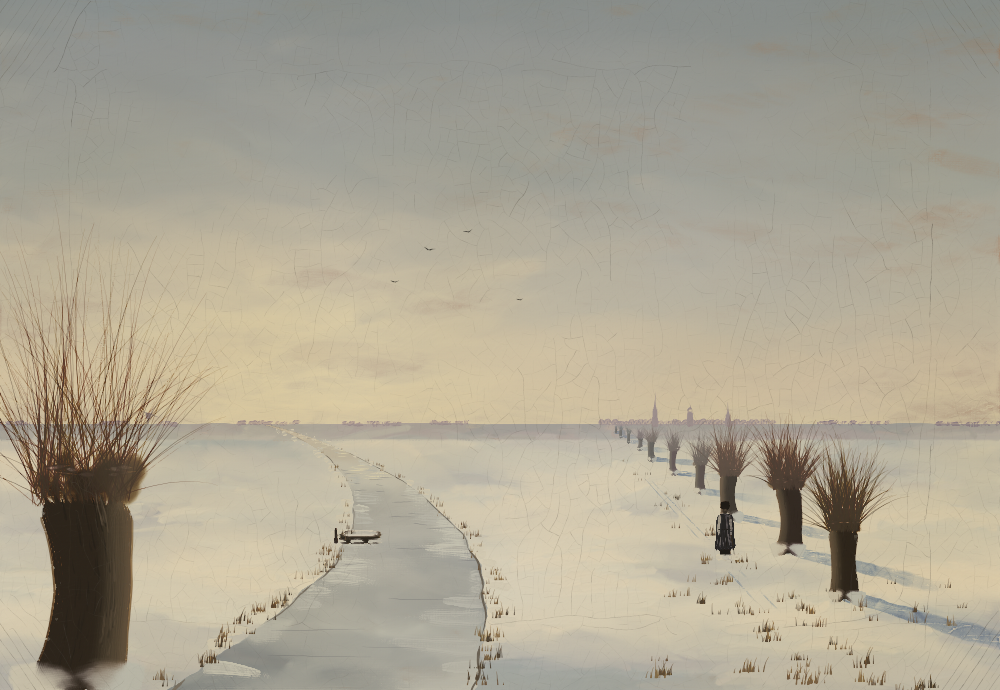
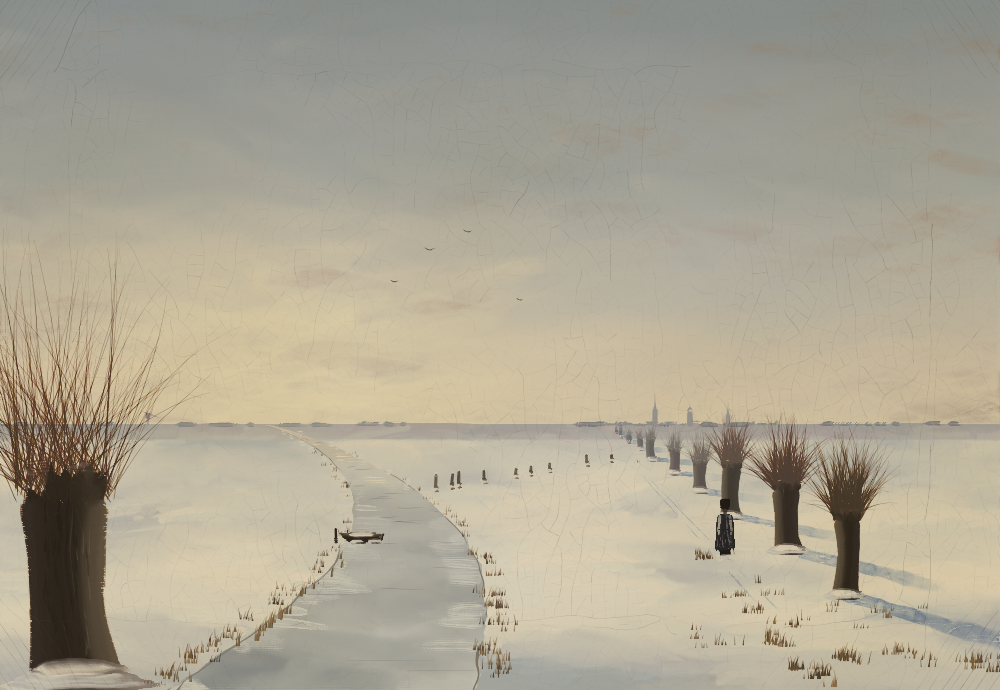
r9 arm2: final render, notes and friction

diff --git a/paintings/src/bin/r9_ryck_winter.rs b/paintings/src/bin/r9_ryck_winter.rs
@@ -167,15 +167,20 @@ fn main() {
             let run = rng.range(10.0, 90.0);
             if (x - 560.0).abs() > 150.0 || rng.f() < 0.4 {
                 let yy = horizon(x) + rng.range(-0.3, 0.8);
-                let dark = if (x - sx).abs() < 160.0 { "#9d97a0" } else { "#8a8795" };
-                sab.reload(pile(&st, dark, 0.8, 0.5), 0.5);
+                let dark = if (x - sx).abs() < 160.0 { "#96929b" } else { "#84818e" };
+                sab.reload(pile(&st, dark, 0.85, 0.5), rng.range(0.45, 0.65));
+                // one or two long level strokes, the brush pressed and
+                // eased as it goes, so the hedge thickens and thins
                 let mut xx = x;
                 while xx < x + run {
-                    let seg = rng.range(3.0, 14.0);
-                    let hump = rng.range(0.4, 2.4);
-                    let pts = vec![(xx, yy), (xx + seg * 0.5, yy - hump), (xx + seg, yy - rng.range(0.0, 0.8))];
-                    c.drag(&mut sab, &Gesture::new(pts).pressure(rng.range(0.35, 0.7), rng.range(0.3, 0.6)).ramps(0.2, 0.3), None);
-                    xx += seg * rng.range(0.6, 1.1);
+                    let seg = rng.range(12.0, 40.0).min(x + run - xx + 4.0);
+                    let pts: Vec<(f32, f32)> = (0..5).map(|j| {
+                        let u = j as f32 / 4.0;
+                        (xx + seg * u, yy - rng.range(0.0, 0.7))
+                    }).collect();
+                    let knots: Vec<f32> = (0..5).map(|_| rng.range(0.5, 1.3)).collect();
+                    c.drag(&mut sab, &Gesture::new(pts).pressure(rng.range(0.45, 0.8), rng.range(0.3, 0.6)).ramps(0.25, 0.35).swell(knots), None);
+                    xx += seg * rng.range(0.9, 1.3);
                 }
                 // a copse: a few taller round tufts rising from the line
                 if rng.f() < 0.35 {
@@ -318,12 +323,12 @@ fn main() {
             let (l, r) = (bank_l(y), bank_r(y));
             let wid = r - l;
             for side in [0usize, 1] {
-                if rng.f() < 0.45 {
+                if rng.f() < 0.3 || t < 0.13 {
                     continue;
                 }
                 let reach = wid * rng.range(0.1, 0.6) * rng.range(0.5, 1.0) * (if t < 0.12 { 1.6 } else { 1.0 });
                 let (x0, dir) = if side == 0 { (l - 2.0 * t, 1.0) } else { (r + 2.0 * t, -1.0) };
-                tg.tool.width = 1.2 + 11.0 * t;
+                tg.tool.width = (1.2 + 11.0 * t) * rng.range(0.6, 1.1);
                 let col = if rng.f() < 0.5 { "#cfccca" } else { "#bdbdc2" };
                 tg.reload(pile(&st, col, 0.75, 0.7), rng.range(0.35, 0.7));
                 // the wind came from the west (left): the drifts trail
@@ -333,7 +338,7 @@ fn main() {
                     let u = j as f32 / 4.0;
                     (x0 + dir * reach * u, y + sag * u * u + rng.range(-0.3, 0.3) * t)
                 }).collect();
-                c.drag(&mut tg, &Gesture::new(pts).pressure(rng.range(0.55, 0.9), rng.range(0.05, 0.3)).ramps(0.05, rng.range(0.4, 0.8)).swell(vec![1.0, 0.8, 1.1]), Some(&ice));
+                c.drag(&mut tg, &Gesture::new(pts).pressure(rng.range(0.65, 0.95), 0.1).ramps(rng.range(0.02, 0.12), rng.range(0.45, 0.75)).swell(vec![rng.range(0.7, 1.1), rng.range(0.8, 1.2), rng.range(0.5, 1.0)]).orient(Orient::Across), Some(&ice));
             }
             y += (1.5 + 13.0 * t) * rng.range(0.4, 1.8);
         }
@@ -411,14 +416,14 @@ fn main() {
                 let t = depth(y);
                 let run = (6.0 + 70.0 * t) * rng.range(0.5, 1.2);
                 edge.tool.width = 0.6 + 4.5 * t;
-                edge.reload(pile(&st, if side == 0 { "#7c7771" } else { "#6c6760" }, 0.8, 0.5), 0.45);
+                edge.reload(pile(&st, if side == 0 { "#86817a" } else { "#7d7872" }, 0.75, 0.5), 0.4);
                 let dir = if side == 0 { -1.0 } else { 1.0 };
                 let bx = |yy: f32| if side == 0 { bank_l(yy) } else { bank_r(yy) };
                 let pts: Vec<(f32, f32)> = (0..5).map(|j| {
                     let yy = y + run * j as f32 / 4.0;
                     (bx(yy) + dir * (0.3 + 1.2 * depth(yy)) * rng.range(-0.3, 1.0), yy)
                 }).collect();
-                if rng.f() < 0.35 { y += run; continue; }
+                if rng.f() < 0.5 { y += run; continue; }
                 c.drag(&mut edge, &Gesture::new(pts).pressure(rng.range(0.25, 0.7), rng.range(0.1, 0.6)).ramps(0.15, 0.3).swell(vec![1.0, rng.range(0.6, 1.2), 0.9]), None);
                 y += run * rng.range(0.8, 1.15);
             }

diff --git a/notes/round9/arm2/notes.md b/notes/round9/arm2/notes.md
@@ -68,79 +68,110 @@ handling. Ground: Friedrich's reddish ocher stack with a brushed top.
 7. **banks**: the dark lip where the field breaks over the ice, drawn down
    each bank in runs of strokes, set down and lifted, with gaps; snow
    dragged back over it from the field side so the edge is lost and found.
-8. **boat**: hull side in a few strokes, the gunwale light, snow heaped
-   inside and drifted against it, the post with its snow cap and the rope.
+8. **boat**: the hull in side view, laid in level strokes from the sheer
+   line (rising to both ends, bow raked, stern square) down to the ice,
+   darker below; the gunwale light; snow heaped inside and drifted against
+   it; the post with its snow cap and the rope. (First version, strokes
+   along a single curve, read as a puck; the side-view rows fixed it.)
 9. **shadows**: the willows' shadows and the sledge ruts as a thin cool
    glaze through a mask (built from the sun's direction), before the trees
    go in.
 10. **willows**: each tree far to near: the trunk in side-by-side strokes
-    following a flared foot, a waist and the swollen head, a slight kink;
-    the knuckled head in dabs; bark fissures and lights in short broken
+    following a flared foot, a waist and the swollen head, a slight kink,
+    the silhouette strokes blunt and cooler (see friction 5); the knuckled
+    head as stumps of old cuts pushed up out of it; on the big tree a dark
+    split cleft with a lit lip; bark fissures and lights in short broken
     strokes; the rods pulled up out of the head with a pointed rigger in a
     fan, arching outward, reloaded every six rods with a slightly different
-    brown; snow on the head; snow dragged across the foot.
-11. **details**: grass and reeds in clumps, flicked up with the pointed
-    rigger; crows.
+    brown; snow on the head; a drift heaped against the foot in short level
+    strokes, lit on top.
+11. **details**: an old fence of weathered posts across the field from the
+    river to the path (two fallen), snow-capped, drifted at the feet; reeds
+    standing out of the ice by the left bank; grass and reeds in clumps
+    along the banks and in a few wind-scoured patches, flicked up with the
+    pointed rigger; crows.
 12. **figure**: legs, the coat in five overlapping strokes flaring below the
     waist, arms, a fold and belt, collar, head, a tall hat, a stick; snow
     dragged across the feet. Painted after the grass so the grass doesn't
     cross him.
-13. **finish**: aged varnish, craquelure, relief light (`Finish::aged`).
+13. **finish**: aged varnish, craquelure made finer and cleaner than
+    `Cracks::aged` (depth 12 µm, dirt 0.2, veil 0.3: a picture kept well;
+    the default network dominated the quiet sky), relief light.
 
 ## FRICTION
 
-(Running list, most painful first at the end; see the final summary.)
+Top five first, then the rest in the order I hit them.
 
-1. **Editing a helper function below `main` stales every checkpoint.** My
-   willow and figure are helper functions (as they should be: one tree
-   motif called eleven times). Per the staleness model, "everything after
-   the top-level item that holds it" counts for every stage, so tweaking
-   the figure made "fields" stale. Workaround: `--stale-ok --ckpt` on almost
-   every iteration, which trains the painter to ignore the staleness check
-   entirely. A per-stage "which helpers does this block call" or a
-   `// ckpt: from <stage>` tag for fn items would fix it.
-2. **Geometry at the top stales early stages even when they don't use it.**
+1. **A dark stroke laid with a pointed tip draws a warm tan outline
+   around itself.** Every trunk had a thin light-brown rim a few pixels
+   outside its dark silhouette, on both sides, at 3200px: an outline, the
+   most "digital" thing in the picture. It is in the paint (present at
+   `--stop willows`, before varnish and relief), and it went away when the
+   silhouette strokes used `point: 0.0`. My reading: the few outer hairs of a
+   pointed tuft lay a very thin film of the brown beyond the body of the
+   mark, and a thin brown film over white snow is, optically, a tan glaze.
+   Physically honest, maybe, but no painter sees it, because a real loaded
+   sable edge is crisp. Workaround: blunt tips and a cooler grey mixed
+   into the edge strokes, so any thin film reads as a soft grey edge.
+2. **Editing a helper function below `main` stales every checkpoint.** My
+   willow and figure are helper functions (as they
+   should be: one tree motif called eleven times). Per the staleness model,
+   "everything after the top-level item that holds it" counts for every
+   stage, so tweaking the figure made "fields" stale. Workaround:
+   `--stale-ok --ckpt` on almost every iteration, which trains the painter
+   to ignore the staleness check entirely (I then resumed *after* the stage
+   I had changed once and looked at a stale boat, which is exactly the
+   mistake the check exists to prevent). A per-stage "which helpers does this
+   block call" or a `// ckpt: from <stage>` tag for fn items would fix it.
+3. **Thin dark strokes over light snow looked like glass tubing.** Cast
+   shadows and sledge ruts painted as dragged filbert strokes of a darker,
+   low-hiding pile came out *lighter* than the snow at their centers with
+   dark ridged edges (3200px crop), and the ruts as beaded dashes.
+   Workaround: shadows and ruts as a transparent glaze (`st.glaze(0.85)`)
+   through a mask built from the sun's direction. That's closer to how a
+   shadow on snow was glazed, but a painter would just brush it: it should
+   work as a stroke too.
+4. **Variation written into a `color(x, y)` closure gets averaged away.** The
+   river, painted with one handling over one mask, came out as one even
+   band with a perfectly continuous edge; the planned sheen and snow
+   patches in the color function barely showed after aiming and the
+   badger. It read as a road in three iterations. Workaround: a darker base,
+   then the variation painted as separate gestures (snow tongues dragged by
+   hand from the banks, lean sheen strokes). Matches principles.md, but
+   the handling API invites the function route first.
+5. **Snow lying on top of things comes out as cotton balls.** A `touch` of
+   stiff white with a round sable is a round fuzzy blob; willow heads, the
+   boat, posts and the foot drifts all looked like wool or fog at 3200px
+   (the first foot drift of the big tree, a 40-unit filbert, was a grey
+   bow-tie smear). A lying cap or a heaped drift needs flat, pressed,
+   level marks; I rebuilt drifts as rows of short level filbert strokes,
+   narrower, lit on top. Still no easy mark for "a thin crisp cap of snow".
+
+6. **Geometry at the top stales early stages even when they don't use it.**
    The river masks live near the top (the ice and the fields need them);
-   changing the river's width staled the sky. Workaround again `--stale-ok`
-   (sound, since the sky doesn't read those masks, but the tool can't know).
-3. **Strokes laid as shading read as glassy tubes.** Cast shadows and
-   sledge ruts painted as dragged filbert strokes of a darker, low-hiding
-   pile came out *lighter* than the snow at their centers with dark ridged
-   edges, like plastic tubing (3200px crop), and the ruts as beaded dashes.
-   The mean-look aim plus relief lighting of the stroke ridges seems to make
-   any thin dark-over-light stroke look embossed. Workaround: shadows and
-   ruts as a transparent glaze (`st.glaze(0.85)`) through a mask built from
-   the sun's direction. That's closer to how a shadow on snow was glazed,
-   but a painter would just brush it: it should work as a stroke too.
-4. **A glaze covers whatever is under its mask, including trunks already
-   painted.** My first shadow glaze ran across the trunks of nearer willows
-   and lightened them into pale bands (a bluish scattering glaze over a dark
-   is lighter). Workaround: reorder, glaze the shadows before the willows.
-   Fine for a painter, but surprising: a transparent glaze was expected
-   only to darken.
-5. **Snow on the tops of things (willow heads, the boat, the post) comes out
-   as cotton balls.** A `touch` of stiff white with a round sable gives a
-   round fuzzy blob; a thin lying cap of snow needs a flat, dragged,
-   pressed-off mark. I made the touches smaller and leaner; still blobby at
-   3200px.
-6. **The ice first read as a road.** A river painted with one handling over
-   one mask is one even band with a perfectly continuous edge; the
-   `color(x, y)` closure varied the color but the aimed, blended result
-   flattened it again (the planned sheen and snow patches barely showed).
-   Workaround: paint the variation as separate gestures (snow tongues
-   dragged by hand from the banks) over a darker base. The lesson matches
-   principles.md: variation from a function gets averaged away; variation
-   from gestures survives.
-7. **No `Clone` on `Handling`.** To run the badger three times with an
-   angle I call `st.blend()` inside the loop. Minor.
-8. **No integer draw on `Rng`** (`below`, `pick`): I wrote
-   `(rng.f() * n as f32) as usize` with a clamp. Minor.
-9. **The mask edge is the edge.** The ice/field boundary is a hard,
-   perfectly continuous curve even with a soft ramp; the bank strokes on
-   top only partly hide it. Roughening would help (`Mask::roughen`), but a
-   painter would find the edge by painting the two sides against each
-   other; there's no easy way to say "let the field strokes overlap the ice
-   strokes irregularly".
-10. **Craquelure is strong at 1000px**: long straight crack lines cross the
-    quiet sky; `Finish::aged` gives no easy knob for a younger, finer net
-    other than building my own `Finish`.
+   changing the river's width staled the sky. `--stale-ok` again (sound
+   here, but the tool can't know).
+7. **A glaze covers whatever is under its mask, including trunks already
+   painted**, and a bluish scattering glaze over a dark *lightens* it: my
+   first shadow glaze ran across the nearer willows' trunks as pale bands.
+   Workaround: glaze the shadows before the willows. Fine for a painter,
+   but surprising.
+8. **The mask edge is the edge.** The ice/field boundary is a continuous
+   curve even with a soft ramp; the bank strokes on top only partly hide
+   it. A painter finds that edge by painting the two sides against each
+   other; there is no easy way to say "let the field strokes overlap the
+   ice irregularly".
+9. **`Cracks::aged` dominates a quiet sky** at both 1000 and 3200px (long,
+   dark, dense network). Knobs exist (`depth_um`, `dirt`, `veil`) but only
+   by reading crack.rs; `Finish::aged` has no gentler sibling.
+10. **Stroke shapes are points, not outlines.** Everything with a
+    silhouette (hull, coat, trunk) needed me to invent a raster of rows of
+    strokes between two curves; the first boat (strokes along one curve)
+    was a puck. Writing "fill this outline with level strokes, bow raked"
+    by hand is where most of my code went.
+11. **Pollard rods, crows and grass worked well** with the pointed rigger
+    and a reload every few marks: not friction, noted for balance.
+12. Minor API: no `Clone` on `Handling` (I call `st.blend()` inside the
+    loop to run the badger three times); no integer draw on `Rng`.
+13. **Speed was fine**: 1000px whole in 28 s, resumed late stages in about
+    1 s, a 3200px crop in 8 to 40 s, the whole 3200px in about 3 min.
